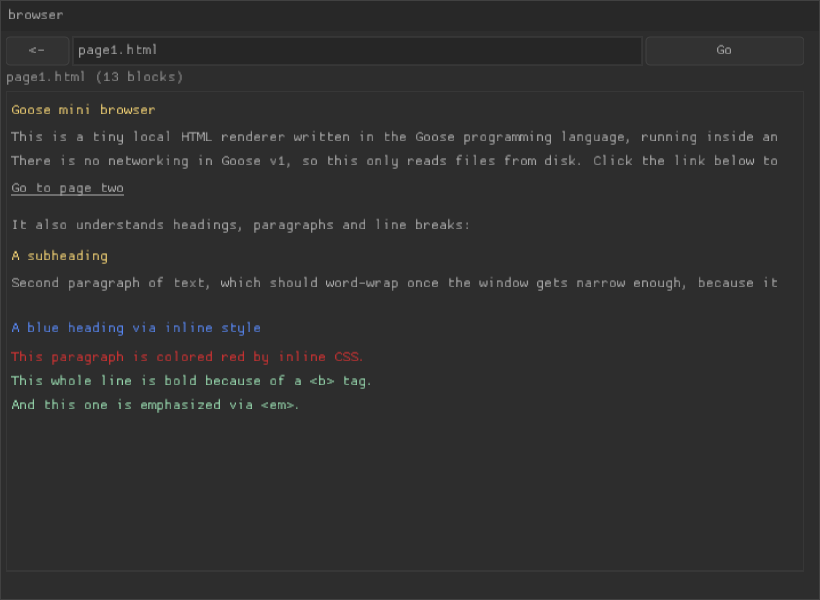
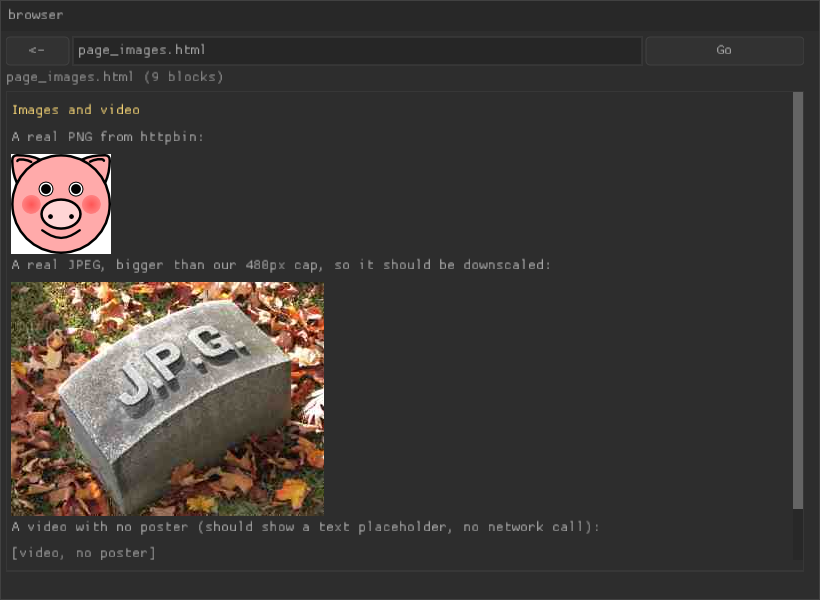
feat: add <img>/<video poster> support via image decoding
- goosenet: new goosenet_fetch_image(url) entry point. Fetches the same
  way as goosenet_fetch, then decodes PNG/JPEG/GIF/WebP (image crate) and
  downsamples to <=480px on the longest side before handing back raw
  RGBA8 pixels -- keeps decode time, the copy across Goose's thread
  queue, and the GPU texture upload cheap no matter how large the
  original was. Performance was the explicit priority for this feature.
- browser: a second thread_fn worker + typed queue (ImageJob/ImageResult,
  parallel to the existing page-fetch one) so image decode never blocks
  page navigation or the render loop. Each result carries the page's
  generation counter so a late result from a page the user has already
  left is dropped instead of corrupting the new page's state.
- HTML scanner recognizes <img src> and <video poster>; a <video> with no
  poster renders as a '[video, no poster]' placeholder with no network
  call -- there is no video decoder here, by design (see README
  Limitations), just an honest stand-in.
- Images render via gfx::texture2d + update_texture + ui::texture_image,
  one GPU texture per <img>, uploaded once when its decode finishes.
- Fixed build.sh to rm the old libgoosenet.dylib before copying the new
  one: overwriting it in place kept the old inode, and macOS's
  code-signing page cache then SIGKILLs any process that maps the file
  (cs_invalid_page, mtime mismatch) -- a fresh inode avoids it.

diff --git a/browser/page_images.html b/browser/page_images.html
@@ -1,0 +1,9 @@
+<h1>Images and video</h1>
+<p>A real PNG from httpbin:</p>
+<img src="https://httpbin.org/image/png">
+<p>A real JPEG, bigger than our 480px cap, so it should be downscaled:</p>
+<img src="https://upload.wikimedia.org/wikipedia/commons/8/8c/JPEG_example_JPG_RIP_025.jpg">
+<p>A video with no poster (should show a text placeholder, no network call):</p>
+<video src="movie.mp4"></video>
+<p>An image that will fail to decode (not an image at all):</p>
+<img src="https://example.com/">

diff --git a/goosenet/src/lib.rs b/goosenet/src/lib.rs
@@ -65,6 +65,64 @@ pub extern "C" fn goosenet_free(ptr: u64, len: i64) {
     }
 }
 
+// A display image never needs to be bigger than this on either side: it
+// keeps decode time, the memcpy across the thread queue, and the GPU
+// texture upload all cheap regardless of what the server actually sent
+// (a phone photo can be 4000px wide for a 400px-wide `<img>`). Aspect
+// ratio is preserved; only images already smaller are left alone.
+const MAX_IMAGE_SIDE: u32 = 480;
+
+/// Fetches `url`, decodes it as an image (PNG/JPEG/GIF/WebP), downsamples
+/// it to at most `MAX_IMAGE_SIDE` on its longest side, and writes RGBA8
+/// pixels into `out_ptr`/`out_len` (`width*height*4` bytes, row-major, no
+/// padding) plus `out_w`/`out_h`. Returns 0 on success, a negative code on
+/// failure (fetch failed, or the bytes don't decode as a supported image
+/// format) -- on failure the out parameters are left untouched.
+#[no_mangle]
+pub extern "C" fn goosenet_fetch_image(
+    url_ptr: *const u8,
+    url_len: i64,
+    out_ptr: *mut u64,
+    out_len: *mut i64,
+    out_w: *mut i32,
+    out_h: *mut i32,
+) -> i32 {
+    let url = match read_str(url_ptr, url_len) {
+        Some(s) => s,
+        None => return -1,
+    };
+    let (status, body) = match fetch_follow(&url) {
+        Ok(r) => r,
+        Err(_) => return -2,
+    };
+    if !(200..300).contains(&status) {
+        return -3;
+    }
+    let img = match image::load_from_memory(&body) {
+        Ok(i) => i,
+        Err(_) => return -4,
+    };
+    let (w0, h0) = (img.width(), img.height());
+    let img = if w0 > MAX_IMAGE_SIDE || h0 > MAX_IMAGE_SIDE {
+        img.resize(MAX_IMAGE_SIDE, MAX_IMAGE_SIDE, image::imageops::FilterType::Triangle)
+    } else {
+        img
+    };
+    let rgba = img.to_rgba8();
+    let (w, h) = rgba.dimensions();
+    let raw = rgba.into_raw();
+    let len = raw.len() as i64;
+    let boxed = raw.into_boxed_slice();
+    let ptr = Box::into_raw(boxed) as *mut u8 as u64;
+    unsafe {
+        *out_ptr = ptr;
+        *out_len = len;
+        *out_w = w as i32;
+        *out_h = h as i32;
+    }
+    0
+}
+
 fn read_str(ptr: *const u8, len: i64) -> Option<String> {
     if ptr.is_null() || len < 0 {
         return None;

diff --git a/README.md b/README.md
@@ -9,9 +9,9 @@ doesn't have: networking.
 
 It fetches real pages over `http://` and `https://`, follows redirects,
 decodes chunked transfer-encoding, renders basic HTML (headings, paragraphs,
-links, line breaks, a handful of inline styles) in a resizable SDL3/Nuklear
-window, and lets you click between pages — all without blocking the UI
-thread while a request is in flight.
+links, line breaks, images, a handful of inline styles) in a resizable
+SDL3/Nuklear window, and lets you click between pages — all without
+blocking the UI thread while a request or an image decode is in flight.
 
 This is a demo/learning project, not a production browser. See
 [Limitations](#limitations) for exactly where it stops.
@@ -42,26 +42,41 @@ the Goose compiler itself.
         libgoosenet.{dylib,so,dll}
 ```
 
-- **`goosenet/`** — the Rust side. One exported entry point,
-  `goosenet_fetch(url) -> (status, body)`, that resolves scheme, opens a raw
-  TCP socket or a `rustls` TLS connection, follows up to 8 redirects, and
-  undoes `Transfer-Encoding: chunked`. Everything crosses the FFI boundary
-  as scalars and raw pointers (see `docs/` link below for the exact rules);
-  an owned buffer is handed back as a `u64` + length and freed by the Goose
-  side calling `goosenet_free` after copying it out.
+- **`goosenet/`** — the Rust side. Two exported entry points:
+  `goosenet_fetch(url) -> (status, body)`, which resolves scheme, opens a
+  raw TCP socket or a `rustls` TLS connection, follows up to 8 redirects,
+  and undoes `Transfer-Encoding: chunked`; and `goosenet_fetch_image(url)`,
+  which does the same fetch and then decodes the body as PNG/JPEG/GIF/WebP
+  (the `image` crate) and downsamples it to at most 480px on its longest
+  side before handing back raw RGBA8 pixels — so decode time, the copy
+  across Goose's thread queue, and the GPU texture upload all stay cheap
+  regardless of how large the source image actually was. Everything
+  crosses the FFI boundary as scalars and raw pointers (see `docs/` link
+  below for the exact rules); an owned buffer is handed back as a `u64` +
+  length and freed by the Goose side calling `goosenet_free` after copying
+  it out.
 - **`browser/net.goose`** — a thin Goose wrapper: `extern "goosenet" { ... }`
-  binds the two functions dynamically (no C compiler involved on the Goose
-  side), and `http_get_page` does the FFI call and copies the result into
-  Goose-owned memory.
+  binds the functions dynamically (no C compiler involved on the Goose
+  side), and `http_get_page`/`fetch_image_rgba` do the FFI call and copy
+  the result into Goose-owned memory.
 - **`browser/mini_browser.goose`** — the browser itself:
   - a hand-rolled HTML scanner (not a real parser) for `<h1-h3>`, `<p>`,
-    `<a href>`, `<br>`, `<b>/<strong>/<i>/<em>`, and inline `style="color: ..."`
+    `<a href>`, `<br>`, `<img src>`, `<video poster>`,
+    `<b>/<strong>/<i>/<em>`, and inline `style="color: ..."`
   - HTML entity decoding (`&amp;`, `&lt;`, numeric `&#NN;`/`&#xHH;`, …)
-  - a `thread_fn` worker consuming jobs off a typed queue
-    (`qget`/`qput`/`qpoll` — Goose has no shared memory between threads) so
-    a slow fetch never freezes the window
+  - **two** `thread_fn` workers, each consuming jobs off its own typed
+    queue (`qget`/`qput`/`qpoll` — Goose has no shared memory between
+    threads): one fetches pages, the other fetches+decodes images, so a
+    slow network call or a big image never freezes the window or blocks
+    the other kind of work. Each image result carries the generation
+    counter of the page it was requested for, so a result that arrives
+    after the user has already navigated away is dropped instead of
+    painting onto the wrong page.
   - a Nuklear UI: address bar, back button, scrollable page view, clickable
-    links
+    links, and images drawn from a GPU texture uploaded the first frame
+    each `<img>`/`<video poster>` is laid out (there is no lazy-load by
+    scroll position — every image on the page starts fetching as soon as
+    the page does)
 - **`browser/mini_browser.build`** — the sidecar that maps `goosenet` to
   `./goosenet` next to the built executable (resolved through
   `resource_dir()`), so the shipped binary needs no `DYLD_LIBRARY_PATH` /
@@ -133,7 +148,14 @@ shim can go, not a spec-compliant browser. Known, intentional gaps:
   modern web apps, social feeds, SPAs) show nothing meaningful.
 - **No cookies/sessions.** Every request is anonymous; anything requiring
   login won't show authenticated content.
-- **No images.** `<img>` is ignored.
+- **No real video.** `<video poster="...">` shows the poster frame as a
+  still image; without a poster it's a `[video, no poster]` text line.
+  There is no decoder, no playback, no audio.
+- **Images are capped at 480px** on their longest side (deliberately, for
+  decode/memory/GPU-upload cost) and fetched eagerly, all at once, with no
+  lazy-loading by scroll position and no local-file image support (`goosenet`
+  only speaks HTTP(S); a local page's `<img src="./cat.png">` will show
+  "failed to load").
 - **gzip/deflate aren't decoded** — pages that insist on compression
   despite no `Accept-Encoding` header may render as binary noise.
 - **The HTML scanner is not a real parser**: no error recovery beyond
